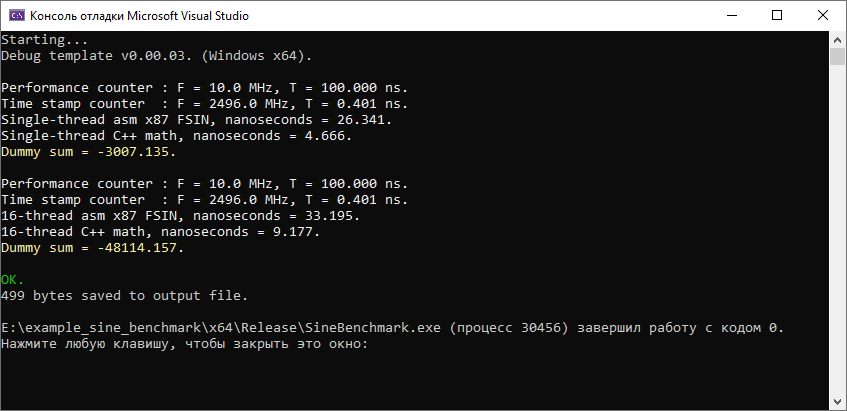
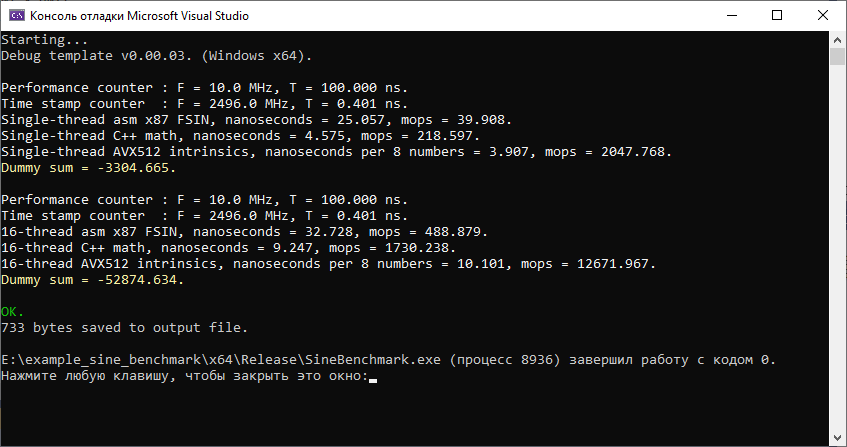
sine benchmark updated

diff --git a/example_sine_benchmark/Calc.cpp b/example_sine_benchmark/Calc.cpp
@@ -7,16 +7,19 @@ Realization of sine calculation benchmark functions class.
 extern "C" void __stdcall calcSine(void* ptr, DWORD64 count, DWORD64 repeats, DWORD64 & deltaTsc, double x);
 void threadFunctionAsm(void* ptr);
 void threadFunctionCpp(void* ptr);
+void threadFunctionAvx512(void* ptr);
+BOOL detectAvx512();
 
-constexpr DWORD64 COUNT = 4096;           // 4096 * 8 = 32KB, this means stable cache hits for processor with L1data=48KB.
-constexpr DWORD64 UNIT = 8;               // One data unit, double = 8 bytes.
-constexpr DWORD64 REPEATS = 10000;        // Repeats for measurement.
-constexpr DWORD64 PAGE = 4096;            // Optimal allocation at page bound.
+constexpr DWORD64 COUNT = 4096;      // 4096 * 8 = 32KB, this means stable cache hits for processor with L1data=48KB.
+constexpr DWORD64 UNIT = 8;          // One data unit, double = 8 bytes.
+constexpr DWORD64 REPEATS = 50000;   // Repeats for measurement.
+constexpr DWORD64 PAGE = 4096;       // Optimal allocation at page bound.
 constexpr double NUM = 0.001;
 
 Calc::Calc()
 {
 }
+
 int Calc::scenarioSingleThread(double& dummySum)
 {
 	char msg[APPCONST::MAX_TEXT_STRING];
@@ -47,7 +50,10 @@ int Calc::scenarioSingleThread(double& dummySum)
 			DWORD64 deltaTsc = 0;
 			calcSine(ptr, COUNT, REPEATS, deltaTsc, NUM);
 			double nanosecondsPerNumber = (1E9 * deltaTsc * tTsc) / (COUNT * REPEATS);
-			snprintf(msg, APPCONST::MAX_TEXT_STRING, "Single-thread asm x87 FSIN, nanoseconds = %.3f.\r\n", nanosecondsPerNumber);
+			double mops = (COUNT * REPEATS) / (deltaTsc * tTsc) / 1E6;
+			snprintf(msg, APPCONST::MAX_TEXT_STRING,
+				"Single-thread asm x87 FSIN, nanoseconds = %.3f, mops = %.3f.\r\n",
+				nanosecondsPerNumber, mops);
 			AppLib::writeColor(msg, APPCONST::TABLE_COLOR);
 			dummySum += sumHelper(reinterpret_cast<double*>(ptr), COUNT);
 
@@ -64,9 +70,36 @@ int Calc::scenarioSingleThread(double& dummySum)
 			}
 			deltaTsc = __rdtsc() - deltaTsc;
 			nanosecondsPerNumber = (1E9 * deltaTsc * tTsc) / (COUNT * REPEATS);
-			snprintf(msg, APPCONST::MAX_TEXT_STRING, "Single-thread C++ math, nanoseconds = %.3f.\r\n", nanosecondsPerNumber);
+			mops = (COUNT * REPEATS) / (deltaTsc * tTsc) / 1E6;
+			snprintf(msg, APPCONST::MAX_TEXT_STRING,
+				"Single-thread C++ math, nanoseconds = %.3f, mops = %.3f.\r\n",
+				nanosecondsPerNumber, mops);
 			AppLib::writeColor(msg, APPCONST::TABLE_COLOR);
 			dummySum += sumHelper(reinterpret_cast<double*>(ptr), COUNT);
+
+			if (detectAvx512())
+			{
+				deltaTsc = __rdtsc();
+				__m512d x  = {   NUM, 2*NUM, 3*NUM, 4*NUM, 5*NUM, 6*NUM, 7*NUM, 8*NUM };
+				__m512d dx = { 8*NUM, 8*NUM, 8*NUM, 8*NUM, 8*NUM, 8*NUM, 8*NUM, 8*NUM };
+				for (int j = 0; j < REPEATS; j++)
+				{
+					__m512d* p = reinterpret_cast<__m512d*>(ptr);
+					for (int i = 0; i < (COUNT / 8); i++)
+					{
+						*(p++) = _mm512_sin_pd(x);
+						x = _mm512_add_pd(x, dx);
+					}
+				}
+				deltaTsc = __rdtsc() - deltaTsc;
+				nanosecondsPerNumber = (1E9 * deltaTsc * tTsc) / (COUNT / 8 * REPEATS);
+				mops = (COUNT * REPEATS) / (deltaTsc * tTsc) / 1E6;
+				snprintf(msg, APPCONST::MAX_TEXT_STRING,
+					"Single-thread AVX512 intrinsics, nanoseconds per 8 numbers = %.3f, mops = %.3f.\r\n",
+					nanosecondsPerNumber, mops);
+				AppLib::writeColor(msg, APPCONST::TABLE_COLOR);
+				dummySum += sumHelper(reinterpret_cast<double*>(ptr), COUNT);
+			}
 		}
 		else
 		{
@@ -82,6 +115,7 @@ int Calc::scenarioSingleThread(double& dummySum)
 	}
 	return exitCode;
 }
+
 int Calc::scenarioMultiThread(double& dummySum)
 {
 	char msg[APPCONST::MAX_TEXT_STRING];
@@ -123,7 +157,10 @@ int Calc::scenarioMultiThread(double& dummySum)
 			}
 			deltaTsc = __rdtsc() - deltaTsc;
 			double nanosecondsPerNumber = (1E9 * deltaTsc * tTsc) / (COUNT * REPEATS);
-			snprintf(msg, APPCONST::MAX_TEXT_STRING, "%d-thread asm x87 FSIN, nanoseconds = %.3f.\r\n", (int)num_threads, nanosecondsPerNumber);
+			double mops = (COUNT * REPEATS * num_threads) / (deltaTsc * tTsc) / 1E6;
+			snprintf(msg, APPCONST::MAX_TEXT_STRING,
+				"%d-thread asm x87 FSIN, nanoseconds = %.3f, mops = %.3f.\r\n",
+				(int)num_threads, nanosecondsPerNumber, mops);
 			AppLib::writeColor(msg, APPCONST::TABLE_COLOR);
 			dummySum += sumHelper(reinterpret_cast<double*>(ptr), COUNT * num_threads);
 
@@ -140,9 +177,35 @@ int Calc::scenarioMultiThread(double& dummySum)
 			}
 			deltaTsc = __rdtsc() - deltaTsc;
 			nanosecondsPerNumber = (1E9 * deltaTsc * tTsc) / (COUNT * REPEATS);
-			snprintf(msg, APPCONST::MAX_TEXT_STRING, "%d-thread C++ math, nanoseconds = %.3f.\r\n", (int)num_threads, nanosecondsPerNumber);
+			mops = (COUNT * REPEATS * num_threads) / (deltaTsc * tTsc) / 1E6;
+			snprintf(msg, APPCONST::MAX_TEXT_STRING,
+				"%d-thread C++ math, nanoseconds = %.3f, mops = %.3f.\r\n",
+				(int)num_threads, nanosecondsPerNumber, mops);
 			AppLib::writeColor(msg, APPCONST::TABLE_COLOR);
 			dummySum += sumHelper(reinterpret_cast<double*>(ptr), COUNT * num_threads);
+
+			if (detectAvx512())
+			{
+				deltaTsc = __rdtsc();
+				std::vector<std::thread> threadsAvx512 = {};
+				for (size_t i = 0; i < num_threads; i++)
+				{
+					BYTE* threadPtr = reinterpret_cast<BYTE*>(ptr) + i * COUNT * UNIT;
+					threadsAvx512.push_back(std::thread(threadFunctionAvx512, threadPtr));  // Create and run N threads, N = hardware concurrency.
+				}
+				for (size_t i = 0; i < num_threads; ++i)
+				{
+					threadsAvx512[i].join();   // Wait for N threads.
+				}
+				deltaTsc = __rdtsc() - deltaTsc;
+				nanosecondsPerNumber = (1E9 * deltaTsc * tTsc) / (COUNT / 8 * REPEATS);
+				mops = (COUNT * REPEATS * num_threads) / (deltaTsc * tTsc) / 1E6;
+				snprintf(msg, APPCONST::MAX_TEXT_STRING,
+					"%d-thread AVX512 intrinsics, nanoseconds per 8 numbers = %.3f, mops = %.3f.\r\n",
+					(int)num_threads, nanosecondsPerNumber, mops);
+				AppLib::writeColor(msg, APPCONST::TABLE_COLOR);
+				dummySum += sumHelper(reinterpret_cast<double*>(ptr), COUNT * num_threads);
+			}
 		}
 		else
 		{
@@ -179,6 +242,21 @@ void threadFunctionCpp(void* ptr)
 	}
 }
 
+void threadFunctionAvx512(void* ptr)
+{
+	__m512d x = { NUM, 2 * NUM, 3 * NUM, 4 * NUM, 5 * NUM, 6 * NUM, 7 * NUM, 8 * NUM };
+	__m512d dx = { 8 * NUM, 8 * NUM, 8 * NUM, 8 * NUM, 8 * NUM, 8 * NUM, 8 * NUM, 8 * NUM };
+	for (int j = 0; j < REPEATS; j++)
+	{
+		__m512d* p = reinterpret_cast<__m512d*>(ptr);
+		for (int i = 0; i < (COUNT / 8); i++)
+		{
+			*(p++) = _mm512_sin_pd(x);
+			x = _mm512_add_pd(x, dx);
+		}
+	}
+}
+
 double Calc::sumHelper(double* p, size_t count)
 {
 	double sum = 0;
@@ -187,4 +265,31 @@ double Calc::sumHelper(double* p, size_t count)
 		sum += *(p++);
 	}
 	return sum;
+}
+
+BOOL detectAvx512()
+{
+	BOOL status = FALSE;
+	int regs[4];
+	__cpuid(regs, 0);
+	if ((regs[0]) > 7)
+	{
+		__cpuid(regs, 1);
+		constexpr int MASK_AVX256 = (1 << 27) | (1 << 28);
+		if ((regs[2] & MASK_AVX256) == MASK_AVX256)
+		{
+			__cpuidex(regs, 7, 0);
+			constexpr int MASK_AVX512 = 1 << 16;
+			if ((regs[1] & MASK_AVX512) == MASK_AVX512)
+			{
+				DWORD64 xcr0 = _xgetbv(0);
+				constexpr DWORD64 MASK_XCR0 = 0xE6;
+				if ((xcr0 & MASK_XCR0) == MASK_XCR0)
+				{
+					status = TRUE;
+				}
+			}
+		}
+	}
+	return status;
 }
